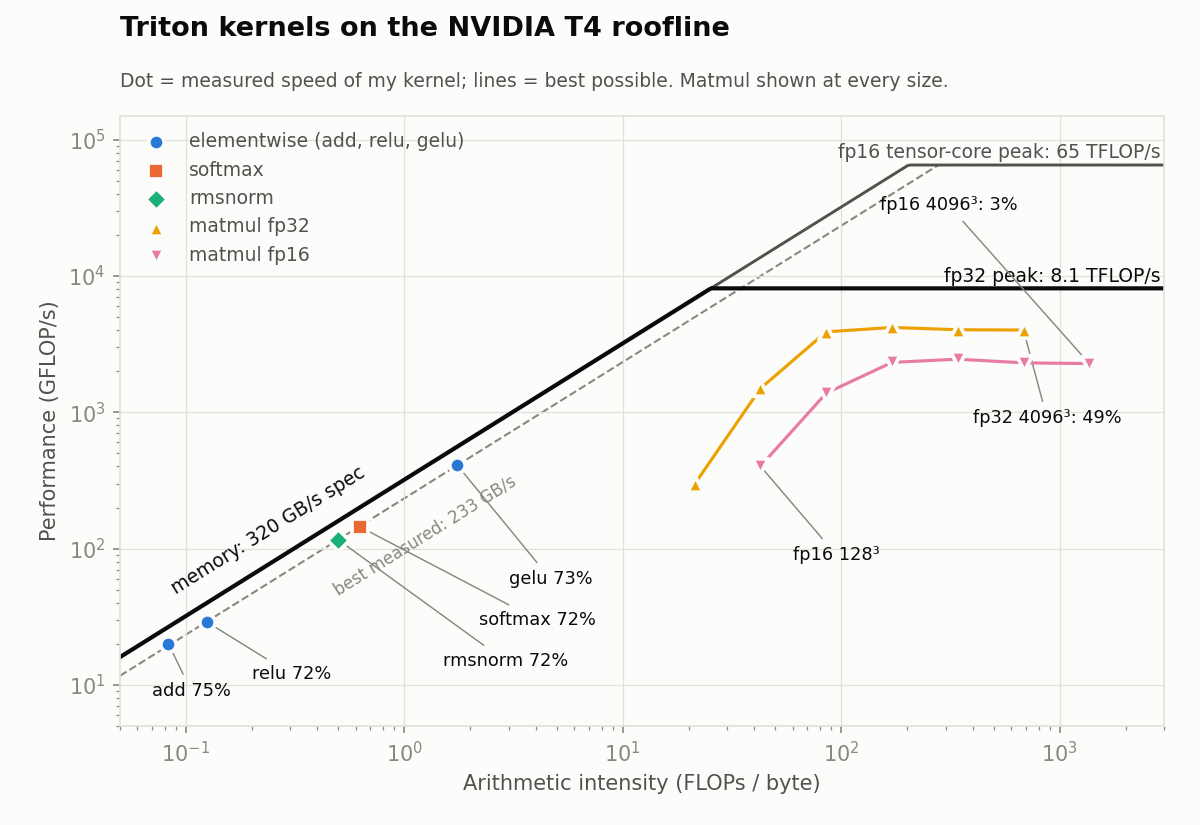
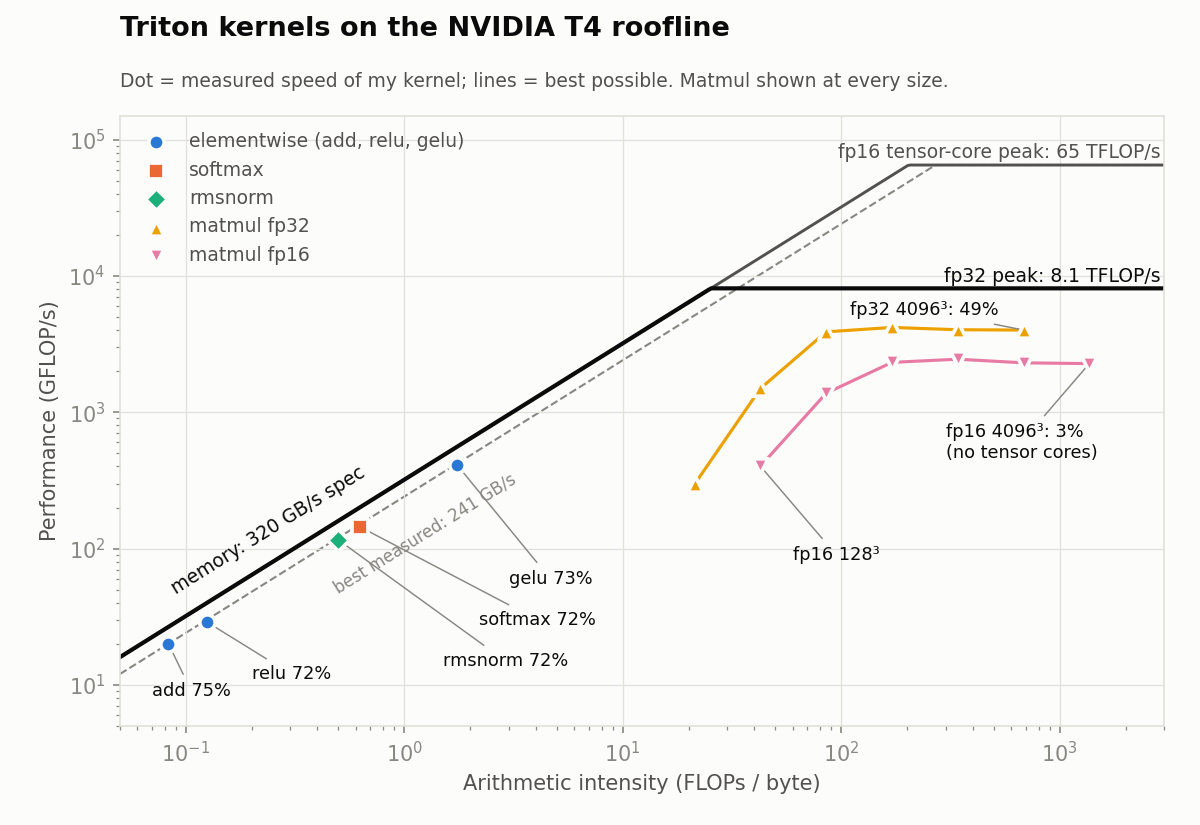
Chart label fixes

diff --git a/scripts/report.py b/scripts/report.py
@@ -59,12 +59,12 @@ def roofline_chart(rows, ceiling):
         RooflineSeries("softmax", [point(sm)], {0: (f"softmax {pct(sm)}", (2.2, 30))}),
         RooflineSeries("rmsnorm", [point(rn)], {0: (f"rmsnorm {pct(rn)}", (1.5, 15))}),
         RooflineSeries("matmul fp32", [point(r) for r in mm32], {
-            len(mm32) - 1: (f"fp32 {mm32[-1].shape.split('x')[0]}³: {pct(mm32[-1])}", (400, 900)),
+            len(mm32) - 1: (f"fp32 {mm32[-1].shape.split('x')[0]}³: {pct(mm32[-1])}", (110, 5600)),
         }, connect=True),
         RooflineSeries("matmul fp16", [point(r) for r in mm16], {
             0: (f"fp16 {mm16[0].shape.split('x')[0]}³", (60, 90)),
-            len(mm16) - 1: (f"fp16 {mm16[-1].shape.split('x')[0]}³: {pct(mm16[-1])}",
-                            (150, 33000)),
+            len(mm16) - 1: (f"fp16 {mm16[-1].shape.split('x')[0]}³: {pct(mm16[-1])}\n(no tensor cores)",
+                            (300, 600)),
         }, connect=True),
     ]
     plot_roofline(hw, series, FIGURES / "roofline.png", measured_bw_gbs=ceiling)
@@ -103,7 +103,7 @@ def fusion_chart(rows, ceiling):
         panels,
         "Row length",
         "Effective bandwidth (GB/s)",
-        refs=[(hw.mem_bw_gbs, "spec"), (ceiling, "copy ceiling")],
+        refs=[(hw.mem_bw_gbs, "spec"), (ceiling, "best measured")],
         figsize=(9, 5),
     )
 
@@ -124,7 +124,7 @@ def matmul_chart(rows):
     plot_lines(
         FIGURES / "matmul.png",
         "Matmul: TFLOP/s vs matrix size (square, N×N×N)",
-        "Solid = fp16 on tensor cores, dashed = fp32. Dotted lines are the T4's peaks.",
+        "Solid = fp16, dashed = fp32. Dotted lines are the T4's peaks.",
         [("", data)],
         "N",
         "TFLOP/s",
@@ -135,9 +135,11 @@ def matmul_chart(rows):
 
 
 def summary(rows, ceiling) -> str:
+    copy_bw = max(r.gbs for r in rows if r.kernel == "copy")
     out = [f"# Results summary ({hw.name})", "",
-           (f"Best measured bandwidth (copy kernel): **{ceiling:.0f} GB/s**, "
-           f"{100 * ceiling / hw.mem_bw_gbs:.0f}% of the {hw.mem_bw_gbs:.0f} GB/s spec."), ""]
+           (f"Best measured bandwidth: **{ceiling:.0f} GB/s**, "
+            f"{100 * ceiling / hw.mem_bw_gbs:.0f}% of the {hw.mem_bw_gbs:.0f} GB/s spec "
+            f"(a plain copy reaches {copy_bw:.0f} GB/s)."), ""]
 
     out += ["## Roofline efficiency per kernel (largest shape)", "",
             ("| Kernel | Shape | Bound | FLOPs/byte | Predicted | Measured | % of roofline "
@@ -182,7 +184,7 @@ def summary(rows, ceiling) -> str:
 def main():
     rows = [r for name in ("elementwise", "softmax", "rmsnorm", "matmul")
             for r in load_csv(RESULTS / f"{name}.csv")]
-    ceiling = max(r.gbs for r in rows if r.kernel == "copy")
+    ceiling = max(r.gbs for r in rows if r.kernel in ("copy", "add", "relu", "gelu"))
     roofline_chart(rows, ceiling)
     elementwise_chart(rows)
     fusion_chart(rows, ceiling)

diff --git a/results/summary.md b/results/summary.md
@@ -1,6 +1,6 @@
 # Results summary (NVIDIA T4)
 
-Best measured bandwidth (copy kernel): **233 GB/s**, 73% of the 320 GB/s spec.
+Best measured bandwidth: **241 GB/s**, 75% of the 320 GB/s spec (a plain copy reaches 233 GB/s).
 
 ## Roofline efficiency per kernel (largest shape)
 
